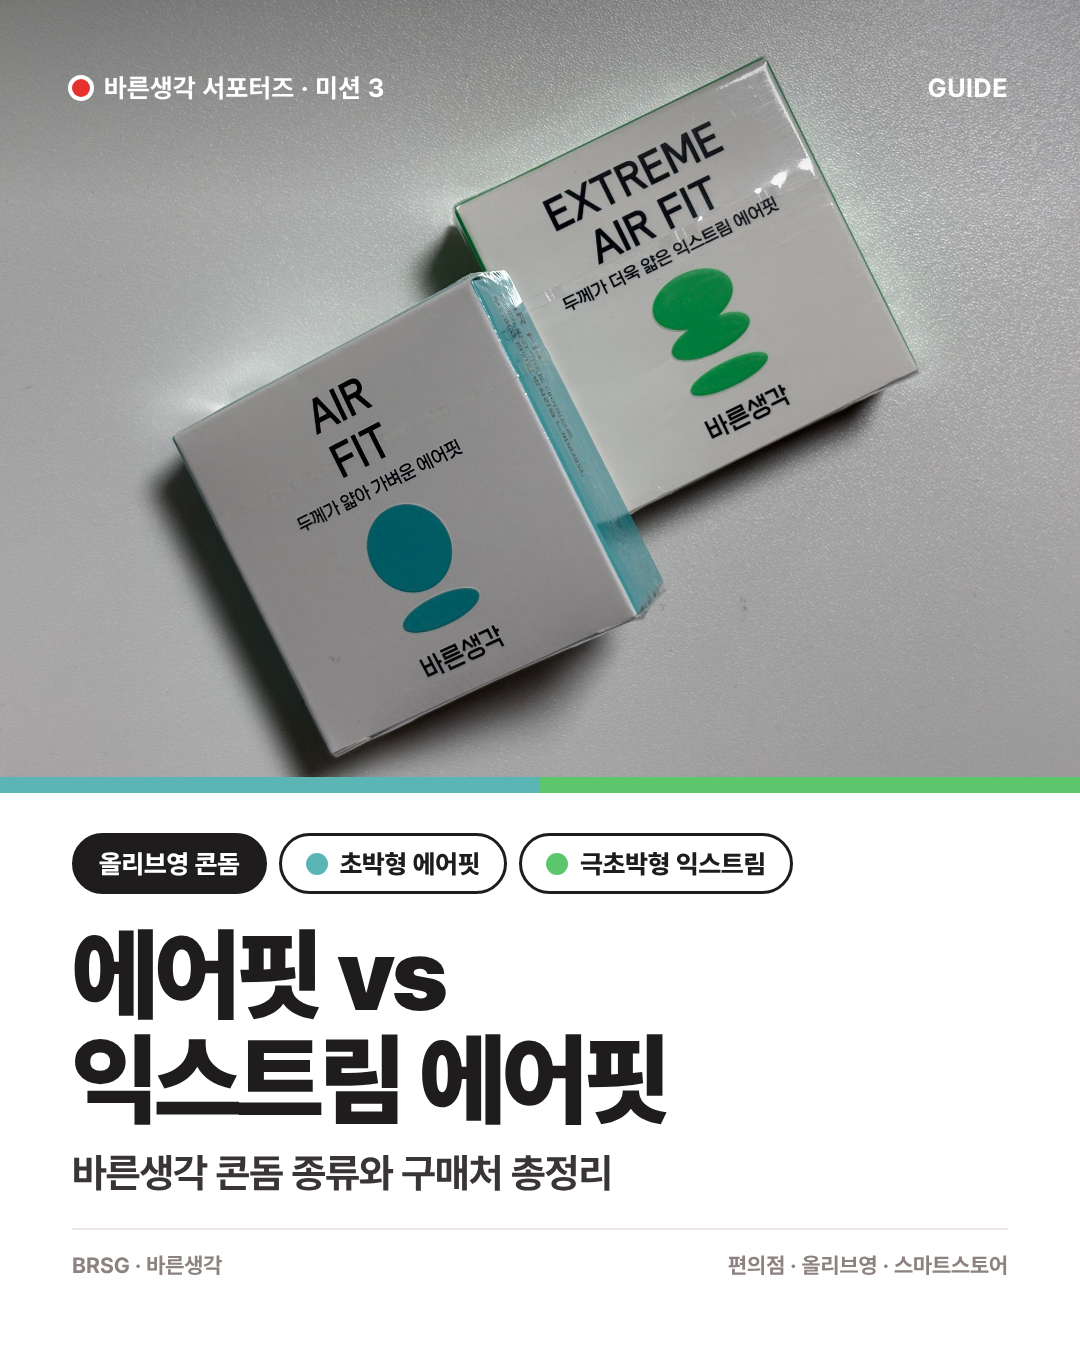
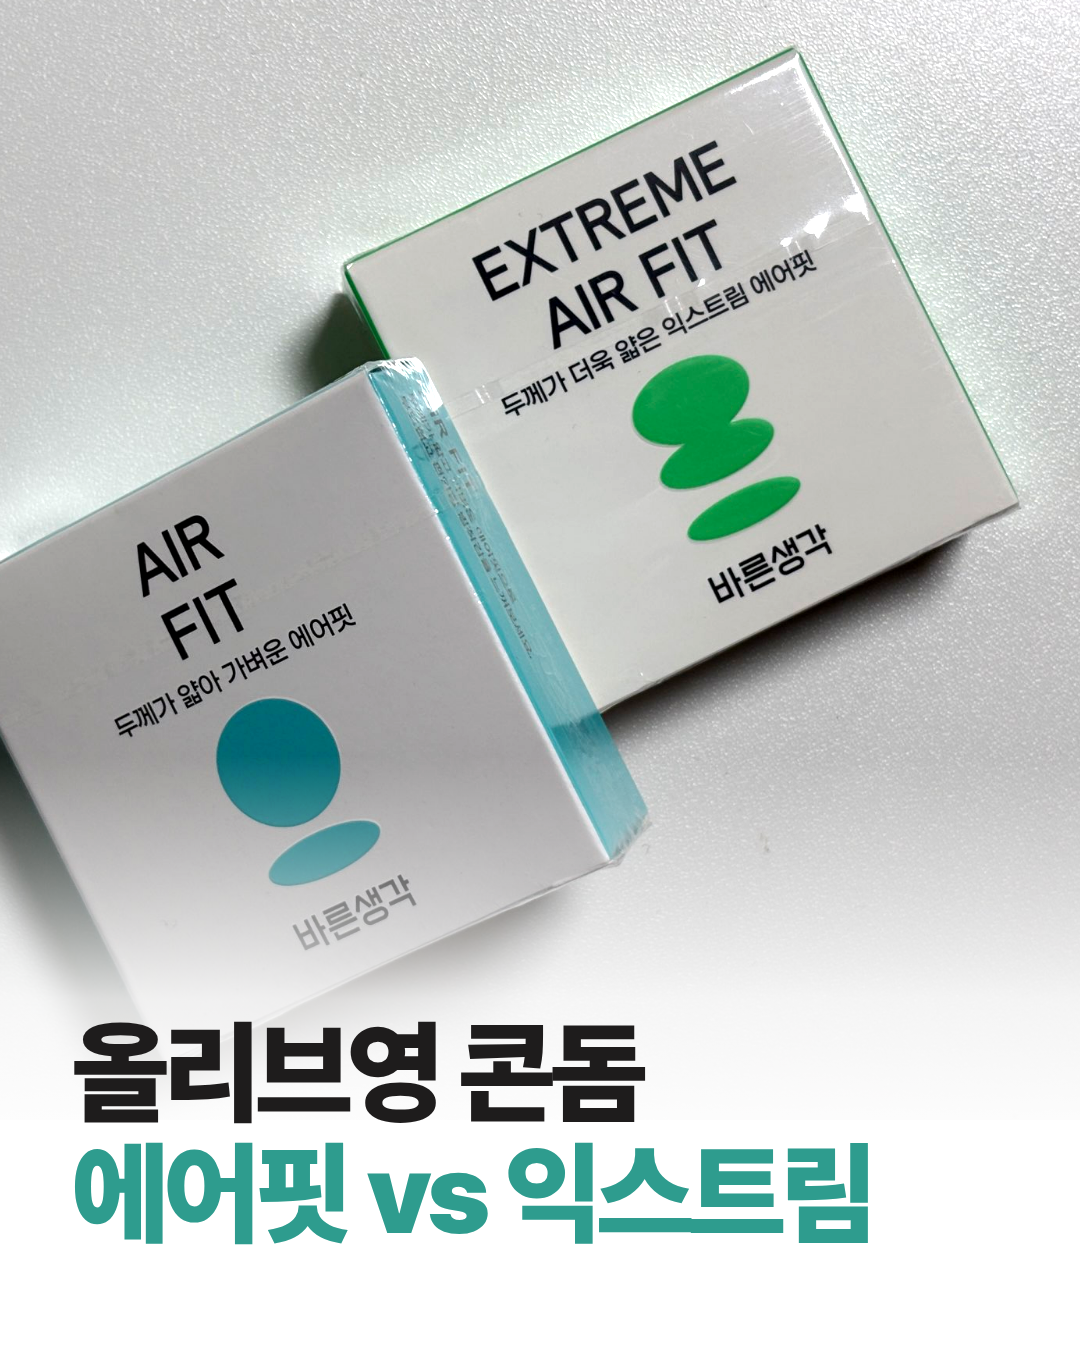
미션 2·3 표지를 밝은 전면 사진 + 그라데이션 + 제목만으로 변경
Claude-Session: https://claude.ai/code/session_019qCDgtxwjFJ64BK9bjLJ6e

diff --git a/brsg-supporters/cardnews/covers.html b/brsg-supporters/cardnews/covers.html
@@ -4,7 +4,7 @@
 <meta charset="utf-8">
 <title>바른생각 미션 표지</title>
 <style>
-/* Layout: 1080×1350 표지 — 상단 실사 사진(그리드 7행) + 하단 타이틀 패널(5행), 72px 마진 */
+/* Layout: 1080×1350 표지 — 밝게 보정한 실사 전면 + 하단 화이트 그라데이션 위에 제목만, 72px 마진 */
 @font-face{font-family:Pretendard;font-weight:500;src:url(fonts/Pretendard-Medium.woff2) format("woff2")}
 @font-face{font-family:Pretendard;font-weight:700;src:url(fonts/Pretendard-Bold.woff2) format("woff2")}
 @font-face{font-family:Pretendard;font-weight:800;src:url(fonts/Pretendard-ExtraBold.woff2) format("woff2")}
@@ -18,62 +18,26 @@
 }
 *{box-sizing:border-box;margin:0;padding:0}
 body{background:#bbb;font-family:Pretendard,sans-serif;color:var(--ink);word-break:keep-all;-webkit-font-smoothing:antialiased}
-.card{width:1080px;height:1350px;position:relative;overflow:hidden;background:var(--paper);
-  display:grid;grid-template-rows:7fr 5fr;margin-bottom:40px}
-.photo{position:relative;background-size:cover;background-position:center}
-.photo::after{content:"";position:absolute;inset:0;background:linear-gradient(180deg,rgba(0,0,0,.28) 0,rgba(0,0,0,0) 26%)}
-.c-head{position:absolute;top:var(--m);left:var(--m);right:var(--m);z-index:2;display:flex;justify-content:space-between;
-  color:#fff;font-size:26px;font-weight:700;letter-spacing:.02em}
-.c-series{display:flex;align-items:center;gap:14px}
-.c-series i{width:18px;height:18px;border-radius:50%;background:var(--brand);display:block;box-shadow:0 0 0 4px #fff}
-.panel{padding:56px var(--m) var(--m);display:grid;grid-template-columns:repeat(12,1fr);column-gap:24px;align-content:space-between;
-  position:relative}
-.band{position:absolute;top:0;left:0;right:0;height:16px;display:grid;grid-template-columns:1fr 1fr}
-.chips{grid-column:1/-1;display:flex;gap:12px;flex-wrap:wrap}
-.chip{display:inline-flex;align-items:center;gap:12px;padding:12px 24px;border-radius:999px;border:3px solid var(--ink);
-  font-size:26px;font-weight:800}
-.chip i{width:22px;height:22px;border-radius:50%;display:block}
-.chip.solid{background:var(--ink);color:#fff}
-.title{grid-column:1/-1;font-size:100px;font-weight:900;letter-spacing:-.04em;line-height:1.05;margin-top:28px}
-.sub{grid-column:1/-1;font-size:40px;font-weight:700;letter-spacing:-.02em;line-height:1.35;margin-top:14px;color:#3A3535}
-.foot{grid-column:1/-1;display:flex;justify-content:space-between;align-items:end;font-size:22px;font-weight:700;color:var(--muted);
-  border-top:2px solid #EEE6E4;padding-top:22px;margin-top:28px}
+.card{width:1080px;height:1350px;position:relative;overflow:hidden;background:#fff;margin-bottom:40px}
+.card img{position:absolute;top:0;height:1180px;width:auto;max-width:none;
+  filter:brightness(1.16) contrast(1.04) saturate(1.06)}
+.card::after{content:"";position:absolute;inset:0;
+  background:linear-gradient(180deg,rgba(255,255,255,0) 56%,rgba(255,255,255,.85) 74%,#fff 86%)}
+.title{position:absolute;left:72px;right:72px;bottom:96px;z-index:2;
+  font-size:112px;font-weight:900;letter-spacing:-.045em;line-height:1.08;color:var(--ink)}
+.title em{font-style:normal;color:var(--accent)}
 </style>
 </head>
 <body>
 
-<section class="card" id="m2-cover">
-  <div class="photo" style="background-image:url(photos/IMG_6530.jpg);background-position:50% 42%">
-    <div class="c-head"><span class="c-series"><i></i>바른생각 서포터즈 · 미션 2</span><span>REVIEW</span></div>
-  </div>
-  <div class="panel">
-    <div class="band"><span style="background:var(--gel-standard)"></span><span style="background:var(--gel-soothing)"></span></div>
-    <div class="chips">
-      <span class="chip solid">올리브영 마사지젤</span>
-      <span class="chip"><i style="background:var(--gel-standard)"></i>젤 스탠다드</span>
-      <span class="chip"><i style="background:var(--gel-soothing)"></i>젤 내추럴 수딩</span>
-    </div>
-    <h1 class="title">바른생각 젤 2종</h1>
-    <p class="sub">들고 다니는 파우치형과 순한 수딩<br>수용성젤 솔직 후기</p>
-    <div class="foot"><span>BRSG · 바른생각</span><span>파우치형 15개입 · 150ml+50ml</span></div>
-  </div>
+<section class="card" id="m2-cover" style="--accent:#5E8FCB">
+  <img src="photos/IMG_6530.jpg" alt="" style="left:-212px;top:-40px">
+  <h1 class="title">바른생각 젤<br><em>2종 솔직 후기</em></h1>
 </section>
 
-<section class="card" id="m3-cover">
-  <div class="photo" style="background-image:url(photos/IMG_6540.jpg);background-position:50% 50%">
-    <div class="c-head"><span class="c-series"><i></i>바른생각 서포터즈 · 미션 3</span><span>GUIDE</span></div>
-  </div>
-  <div class="panel">
-    <div class="band"><span style="background:var(--airfit)"></span><span style="background:var(--extreme)"></span></div>
-    <div class="chips">
-      <span class="chip solid">올리브영 콘돔</span>
-      <span class="chip"><i style="background:var(--airfit)"></i>초박형 에어핏</span>
-      <span class="chip"><i style="background:var(--extreme)"></i>극초박형 익스트림</span>
-    </div>
-    <h1 class="title">에어핏 vs<br>익스트림 에어핏</h1>
-    <p class="sub">바른생각 콘돔 종류와 구매처 총정리</p>
-    <div class="foot"><span>BRSG · 바른생각</span><span>편의점 · 올리브영 · 스마트스토어</span></div>
-  </div>
+<section class="card" id="m3-cover" style="--accent:#2E9C8E">
+  <img src="photos/IMG_6540.jpg" alt="" style="left:-318px;top:-60px">
+  <h1 class="title">올리브영 콘돔<br><em>에어핏 vs 익스트림</em></h1>
 </section>
 
 </body>
